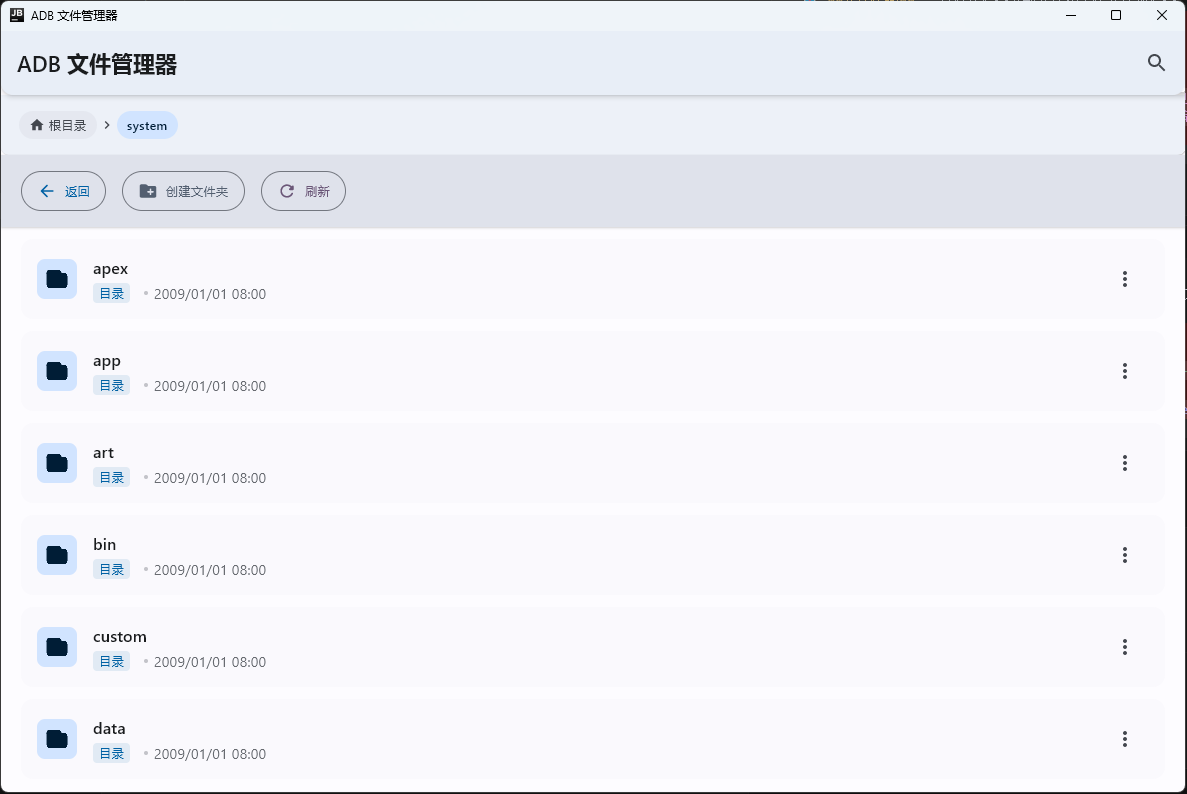
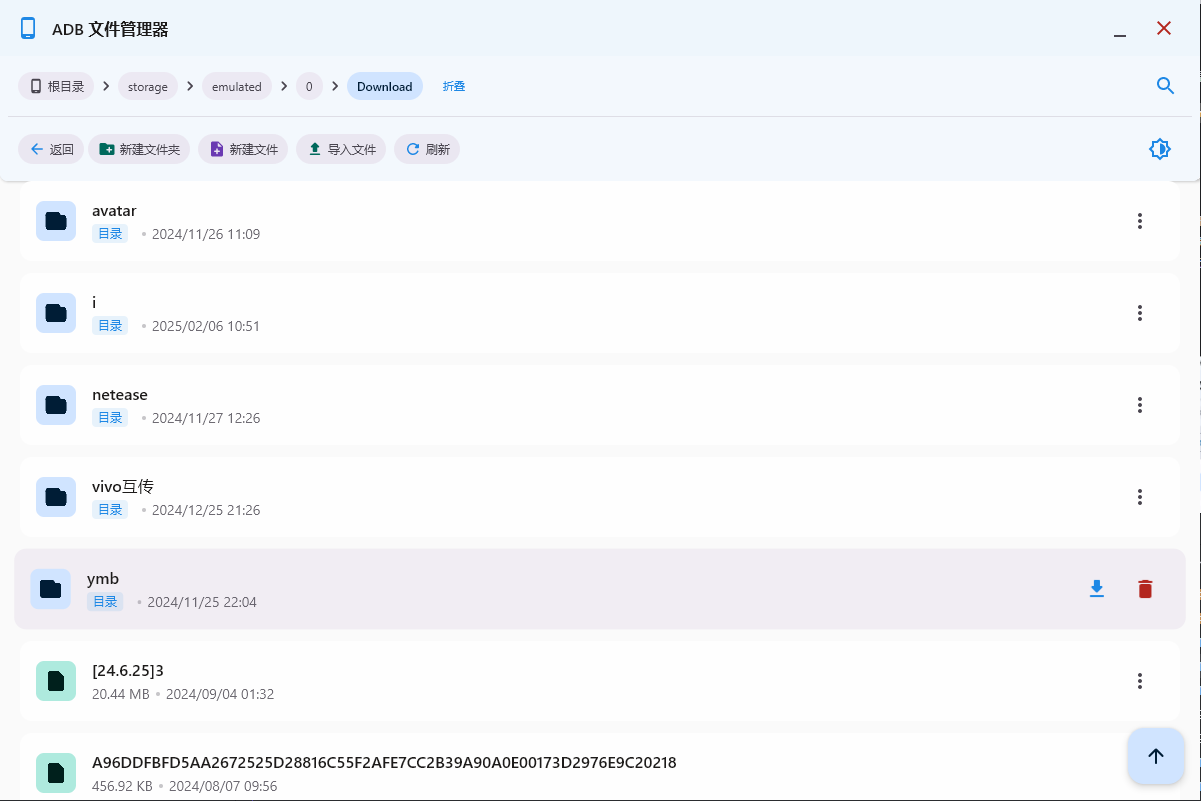
update README.md

Changed region(s): [[0.0, 0.0, 1.0, 1.0], [0.2494, 0.0907, 0.4052, 0.1209], [0.904, 0.7254, 0.9663, 0.7557]]

diff --git a/README.md b/README.md
@@ -15,6 +15,7 @@ ADB File Manager is a desktop application that allows you to remotely browse and
 
 <div align="center">
   <img src="docs/images/1.png" alt="ADB File Manager Preview" width="800">
+  <img src="docs/images/2.png" alt="ADB File Manager Edit Preview" width="800">
 </div>
 
 ## ✨ Features
@@ -22,10 +23,13 @@ ADB File Manager is a desktop application that allows you to remotely browse and
 - 🎨 **Material You Design** - Modern UI design following Google's latest design language
 - 📱 **Multi-device Support** - Connect to and manage multiple Android devices
 - 📂 **Intuitive File Navigation** - File browser with path navigation bar, supporting path jump by clicking
+- 🔍 **Directory Navigation** - Easy directory traversal with breadcrumb navigation, allowing instant jumps to parent directories
 - 📝 **File Editing** - Built-in text editor for editing text files on the device
 - 🔒 **Permission Check** - Smart detection and prompting for file operation permission issues
 - 🔄 **Real-time Feedback** - Real-time status feedback for all operations
 - 📥 **File Transfer** - Support for downloading files from and uploading files to devices
+- 🌓 **Dark/Light Theme** - Toggle between dark and light themes for comfortable viewing in any environment
+- 📄 **File Creation** - Create new text files with custom content directly on the device
 
 ## 🔧 Technology Stack
 
@@ -77,13 +81,24 @@ ADB File Manager is a desktop application that allows you to remotely browse and
    - Click the "New Folder" button in the toolbar
    - Enter a folder name and confirm
 
+5. **Create file**:
+   - Click the "New File" button in the toolbar
+   - Enter a file name and optional content
+   - Confirm to create the file in the current directory
+
+6. **Toggle theme**:
+   - Click the theme icon in the toolbar
+   - Select between system default, light theme, or dark theme
+
 ## 📋 Upcoming Features
 
 - [ ] File search functionality
 - [ ] File permission modification
-- [ ] Dark/light theme toggle
 - [ ] Drag and drop file upload
 - [ ] File preview functionality
+- [ ] Multiple files selection for batch operations
+- [ ] Improved file sorting and filtering options
+- [ ] Bookmark favorite directories
 
 ## 🤝 Contributing
 
